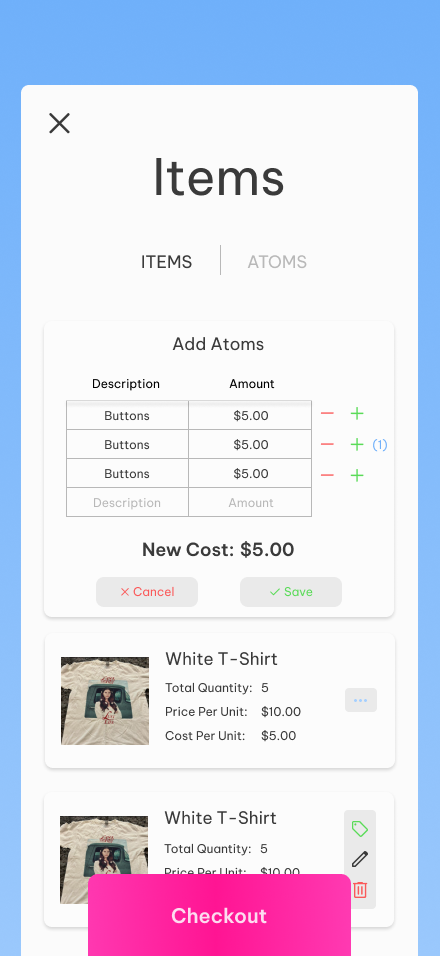
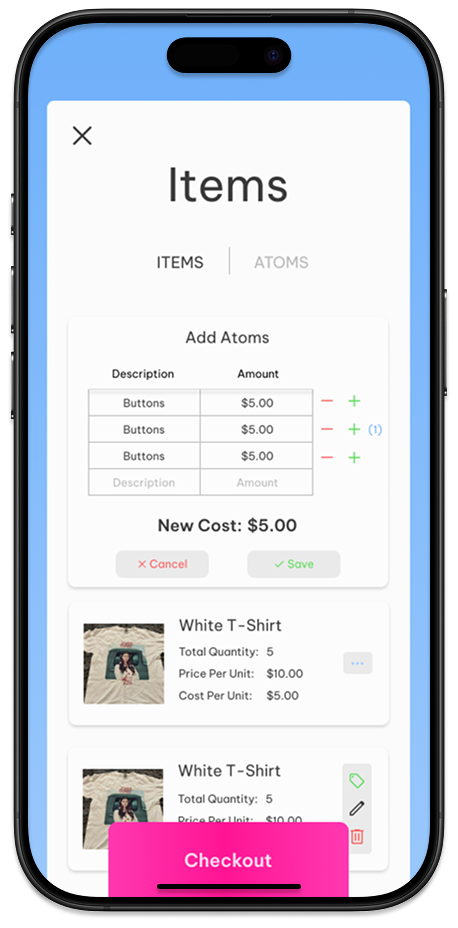
added iphone border to images

diff --git a/my-app/src/components/ui/AppFeatures/FeatureColumn.tsx b/my-app/src/components/ui/AppFeatures/FeatureColumn.tsx
@@ -75,7 +75,7 @@ export function FeatureColumn({ position, features }: FeatureColumnProps) {
             <img
               loading="lazy"
               src={feature.centerImage[imageIndexList[index]]}
-              className="object-contain w-[70%] max-w-[450px] max-h-[700px] rounded-[30px] shadow-lg"
+              className="object-contain w-[70%] max-w-[450px] max-h-[700px] rounded-[30px]"
               alt="Feature preview"
             />
           </div>
